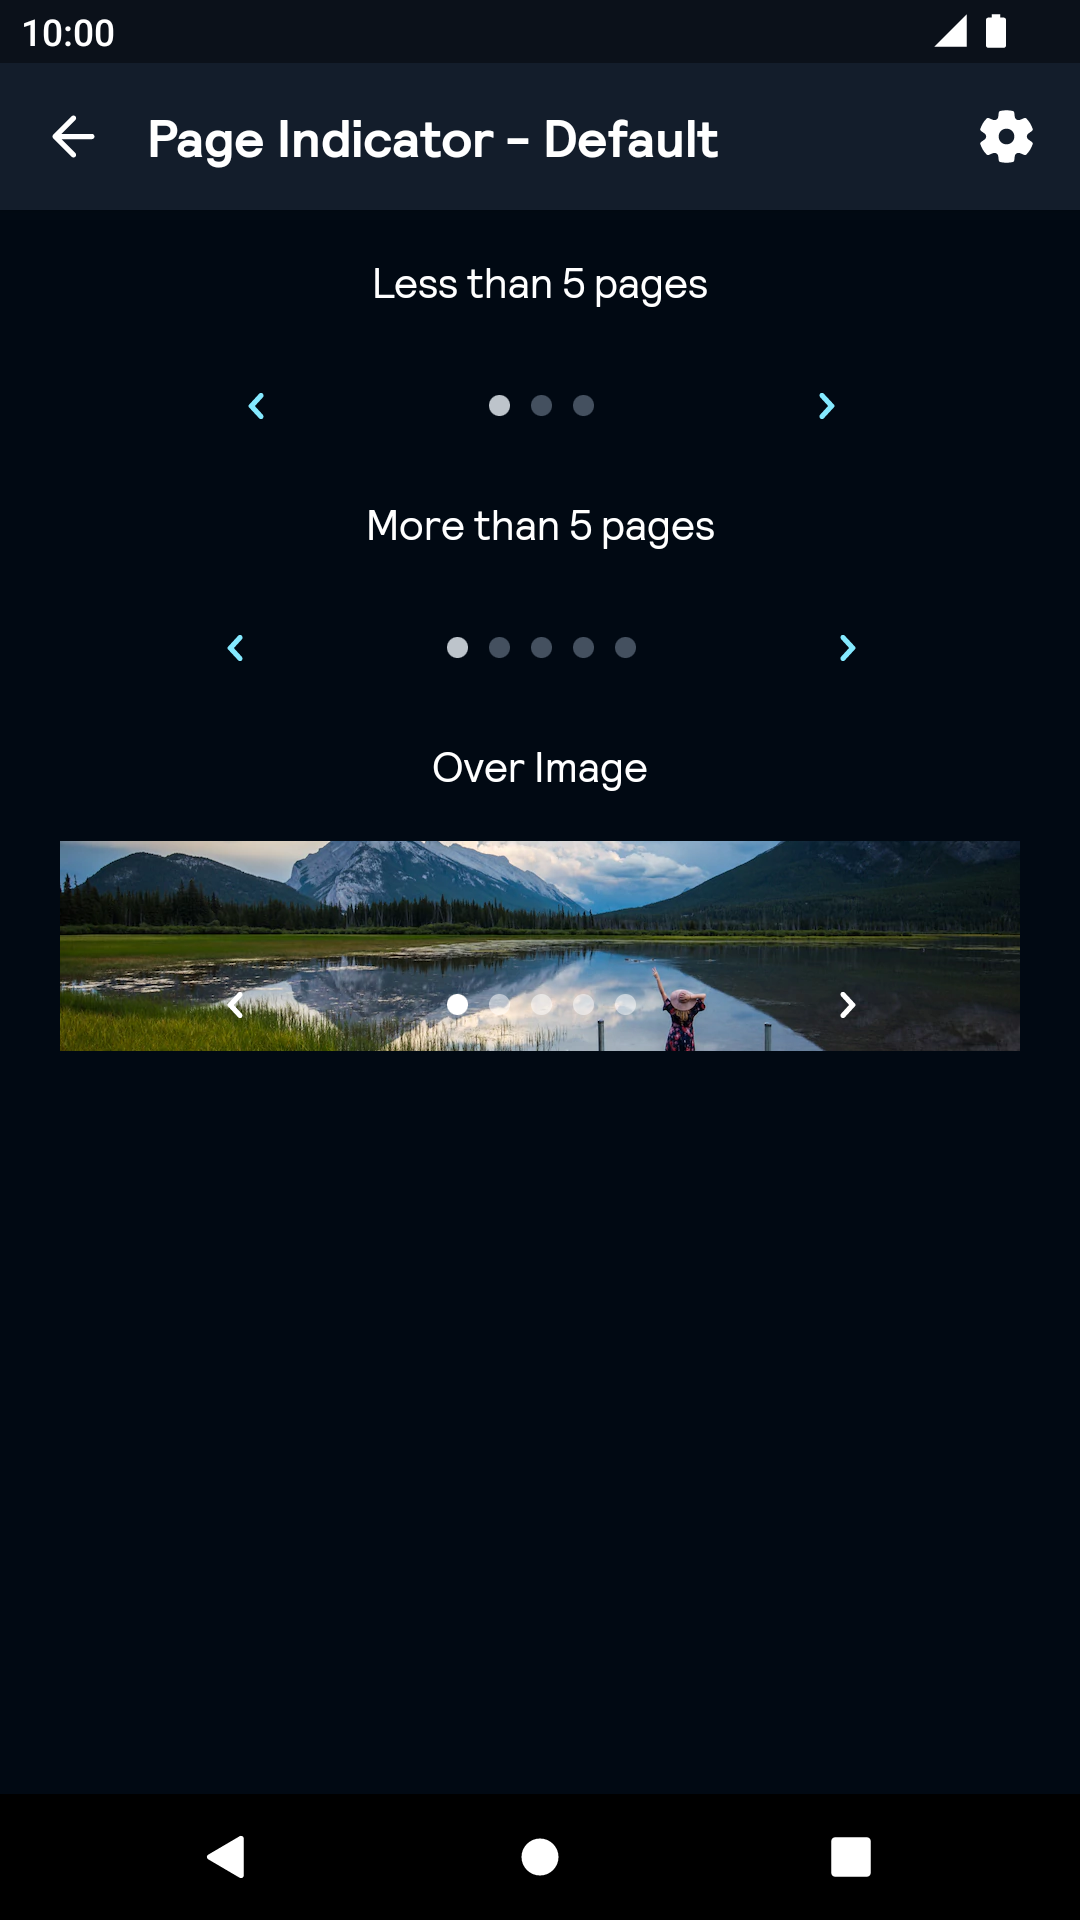
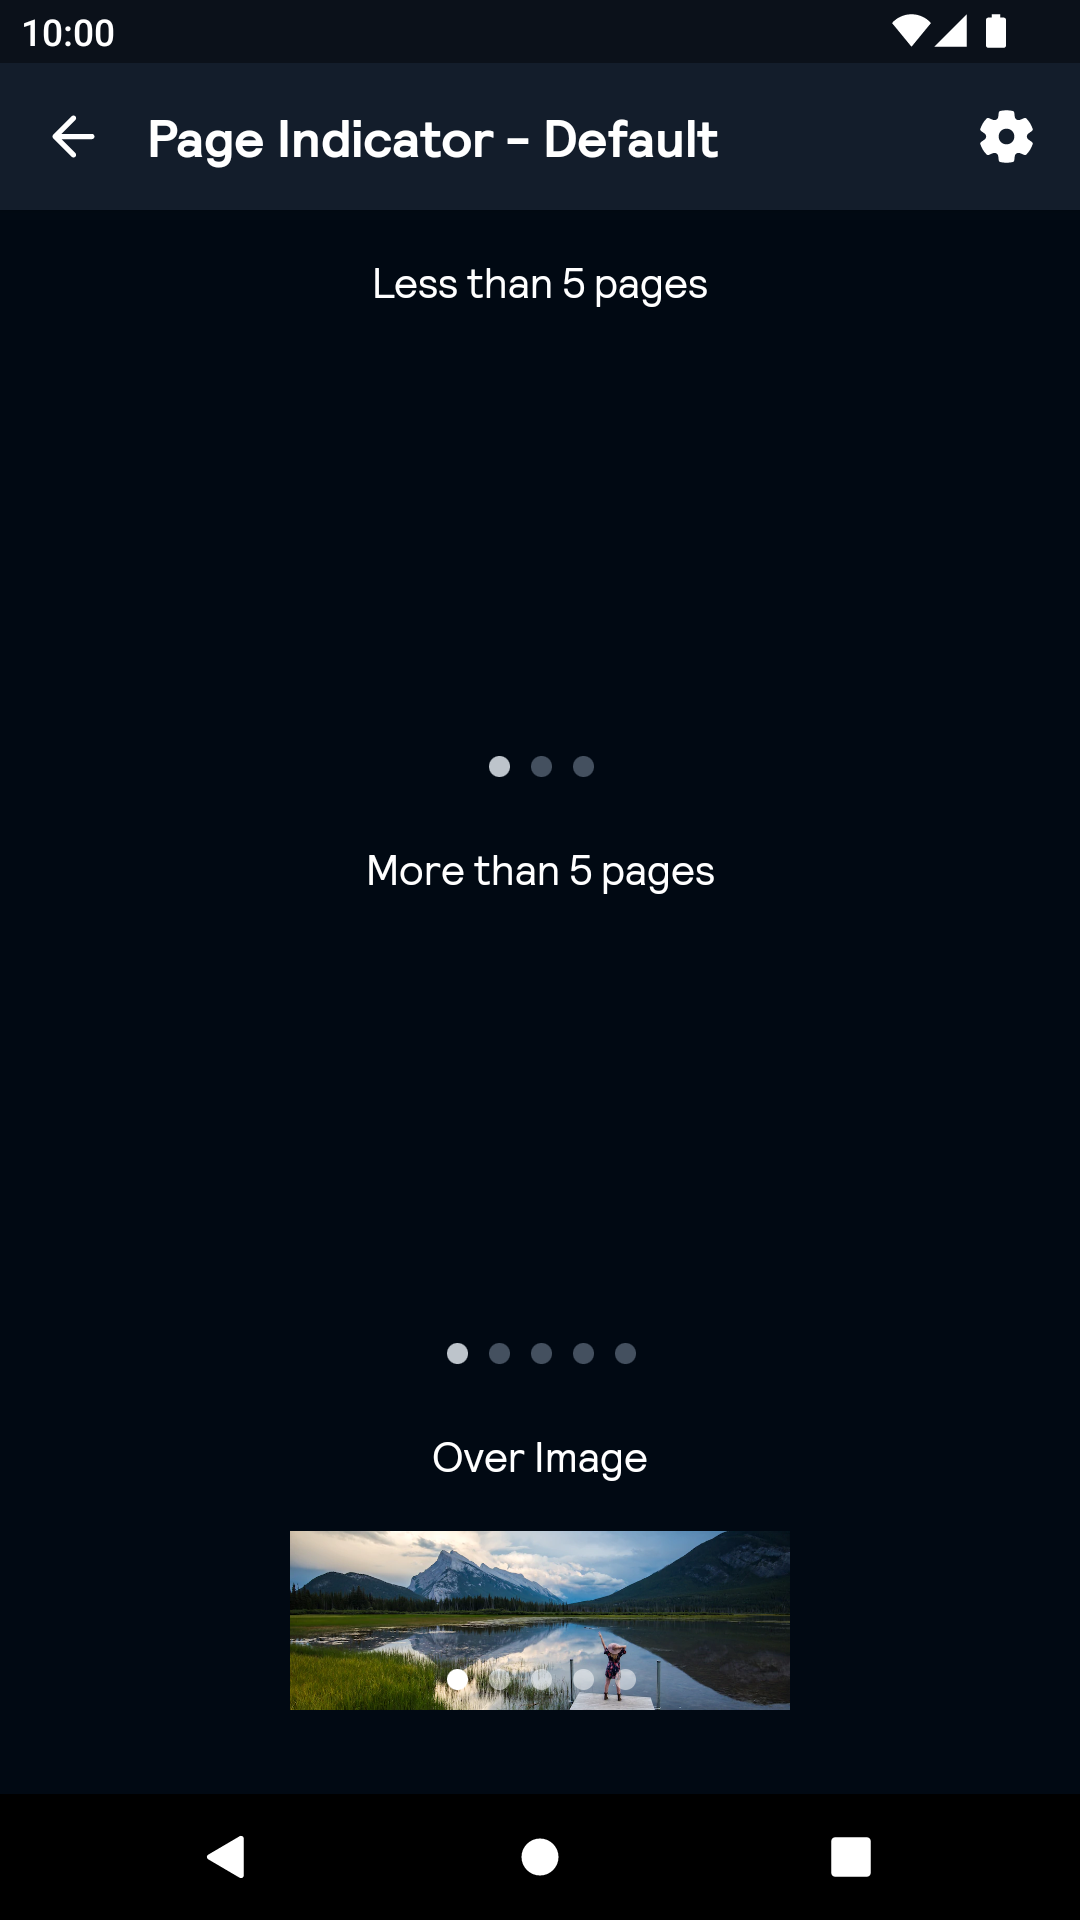
RALP-4862 Update pageindicator story to use horizontal pager (#2011)
* update pageindicator story to sue horizontal pager

* revert change to BpkCarouselState scope

* stop using BpkCarousel as wrapper for BpkPageIndicator story

* revert change to strings.xml

* page indicator screenshots

---------

diff --git a/app/src/main/java/net/skyscanner/backpack/demo/compose/PageIndicatorStory.kt b/app/src/main/java/net/skyscanner/backpack/demo/compose/PageIndicatorStory.kt
@@ -18,108 +18,96 @@
 
 package net.skyscanner.backpack.demo.compose
 
+import androidx.compose.foundation.ExperimentalFoundationApi
 import androidx.compose.foundation.Image
 import androidx.compose.foundation.layout.Arrangement
 import androidx.compose.foundation.layout.Box
+import androidx.compose.foundation.layout.BoxScope
 import androidx.compose.foundation.layout.Column
-import androidx.compose.foundation.layout.Row
+import androidx.compose.foundation.layout.aspectRatio
 import androidx.compose.foundation.layout.fillMaxSize
-import androidx.compose.foundation.layout.fillMaxWidth
-import androidx.compose.foundation.layout.height
 import androidx.compose.foundation.layout.padding
+import androidx.compose.foundation.pager.HorizontalPager
 import androidx.compose.runtime.Composable
-import androidx.compose.runtime.getValue
-import androidx.compose.runtime.mutableIntStateOf
-import androidx.compose.runtime.remember
-import androidx.compose.runtime.setValue
 import androidx.compose.ui.Alignment
 import androidx.compose.ui.Modifier
 import androidx.compose.ui.layout.ContentScale
+import androidx.compose.ui.platform.testTag
 import androidx.compose.ui.res.painterResource
 import androidx.compose.ui.res.stringResource
-import net.skyscanner.backpack.compose.button.BpkButton
-import net.skyscanner.backpack.compose.button.BpkButtonType
-import net.skyscanner.backpack.compose.icon.BpkIcon
 import net.skyscanner.backpack.compose.pageindicator.BpkPageIndicator
 import net.skyscanner.backpack.compose.pageindicator.BpkPageIndicatorStyle
 import net.skyscanner.backpack.compose.text.BpkText
 import net.skyscanner.backpack.compose.tokens.BpkSpacing
-import net.skyscanner.backpack.compose.tokens.ChevronLeft
-import net.skyscanner.backpack.compose.tokens.ChevronRight
 import net.skyscanner.backpack.demo.R
 import net.skyscanner.backpack.demo.components.PageIndicatorComponent
 import net.skyscanner.backpack.demo.meta.ComposeStory
+import androidx.compose.foundation.pager.PagerState
+import androidx.compose.foundation.pager.rememberPagerState
 
+@OptIn(ExperimentalFoundationApi::class)
 @Composable
 @PageIndicatorComponent
 @ComposeStory
 fun PageIndicatorStory(modifier: Modifier = Modifier) {
 
+    val pagerState1 = rememberPagerState(pageCount = { 3 })
+    val pagerState2 = rememberPagerState(pageCount = { 8 })
+    val pagerState3 = rememberPagerState(pageCount = { 8 })
     Column(
         modifier = modifier
             .fillMaxSize()
-            .padding(BpkSpacing.Base),
+            .padding(
+                BpkSpacing.Base,
+            ),
         horizontalAlignment = Alignment.CenterHorizontally,
-        verticalArrangement = Arrangement.spacedBy(BpkSpacing.Base),
+        verticalArrangement = Arrangement.Center,
     ) {
         BpkText(text = stringResource(id = R.string.page_indicator_less_than_5))
-        PageIndicatorSample(totalIndicators = 3, style = BpkPageIndicatorStyle.Default)
+        PageIndicatorSample(style = BpkPageIndicatorStyle.Default, state = pagerState1)
 
         BpkText(text = stringResource(id = R.string.page_indicator_more_than_5))
-        PageIndicatorSample(totalIndicators = 8, style = BpkPageIndicatorStyle.Default)
+        PageIndicatorSample(style = BpkPageIndicatorStyle.Default, state = pagerState2)
 
         BpkText(text = stringResource(id = R.string.page_indicator_over_image))
-        Box(
-            modifier = Modifier
-                .fillMaxWidth()
-                .height(BpkSpacing.Xxl * 2),
-            contentAlignment = Alignment.BottomCenter,
+        PageIndicatorSample(
+            state = pagerState3,
+            style = BpkPageIndicatorStyle.OverImage,
         ) {
             Image(
                 painter = painterResource(id = R.drawable.canadian_rockies_canada),
                 contentDescription = "",
                 contentScale = ContentScale.FillWidth,
-            )
-            PageIndicatorSample(
-                totalIndicators = 8,
-                style = BpkPageIndicatorStyle.OverImage,
-                buttonType = BpkButtonType.LinkOnDark,
+                modifier = Modifier.fillMaxSize(),
             )
         }
     }
 }
 
+@OptIn(ExperimentalFoundationApi::class)
 @Composable
 private fun PageIndicatorSample(
-    totalIndicators: Int,
     style: BpkPageIndicatorStyle,
+    state: PagerState,
     modifier: Modifier = Modifier,
-    buttonType: BpkButtonType = BpkButtonType.Link,
+    content: @Composable (BoxScope.(Int) -> Unit) = {},
 ) {
-    var currentIndex by remember { mutableIntStateOf(0) }
-
-    Row(
-        modifier = modifier.fillMaxWidth(),
-        horizontalArrangement = Arrangement.SpaceEvenly,
-        verticalAlignment = Alignment.CenterVertically,
+    Box(
+        modifier = modifier
+            .aspectRatio(1.9f)
+            .padding(vertical = BpkSpacing.Base),
+        contentAlignment = Alignment.BottomCenter,
     ) {
-        BpkButton(icon = BpkIcon.ChevronLeft,
-            type = buttonType,
-            contentDescription = stringResource(R.string.page_indicator_prev),
+        HorizontalPager(
+            modifier = Modifier
+                .testTag("pager")
+                .fillMaxSize(),
+            state = state,
         ) {
-            currentIndex = (currentIndex - 1).coerceIn(0..<totalIndicators)
+            content(state.currentPage)
         }
-        BpkPageIndicator(
-            currentIndex = currentIndex,
-            totalIndicators = totalIndicators,
-            style = style,
-        )
-        BpkButton(
-            icon = BpkIcon.ChevronRight,
-            type = buttonType,
-            contentDescription = stringResource(R.string.page_indicator_next),
-        ) {
-            currentIndex = (currentIndex + 1).coerceIn(0..<totalIndicators)
-        }
+        BpkPageIndicator(currentIndex = state.currentPage, totalIndicators = state.pageCount, style = style, modifier =
+            Modifier.align(Alignment.BottomCenter)
+                .testTag("pageIndicator"))
     }
 }
